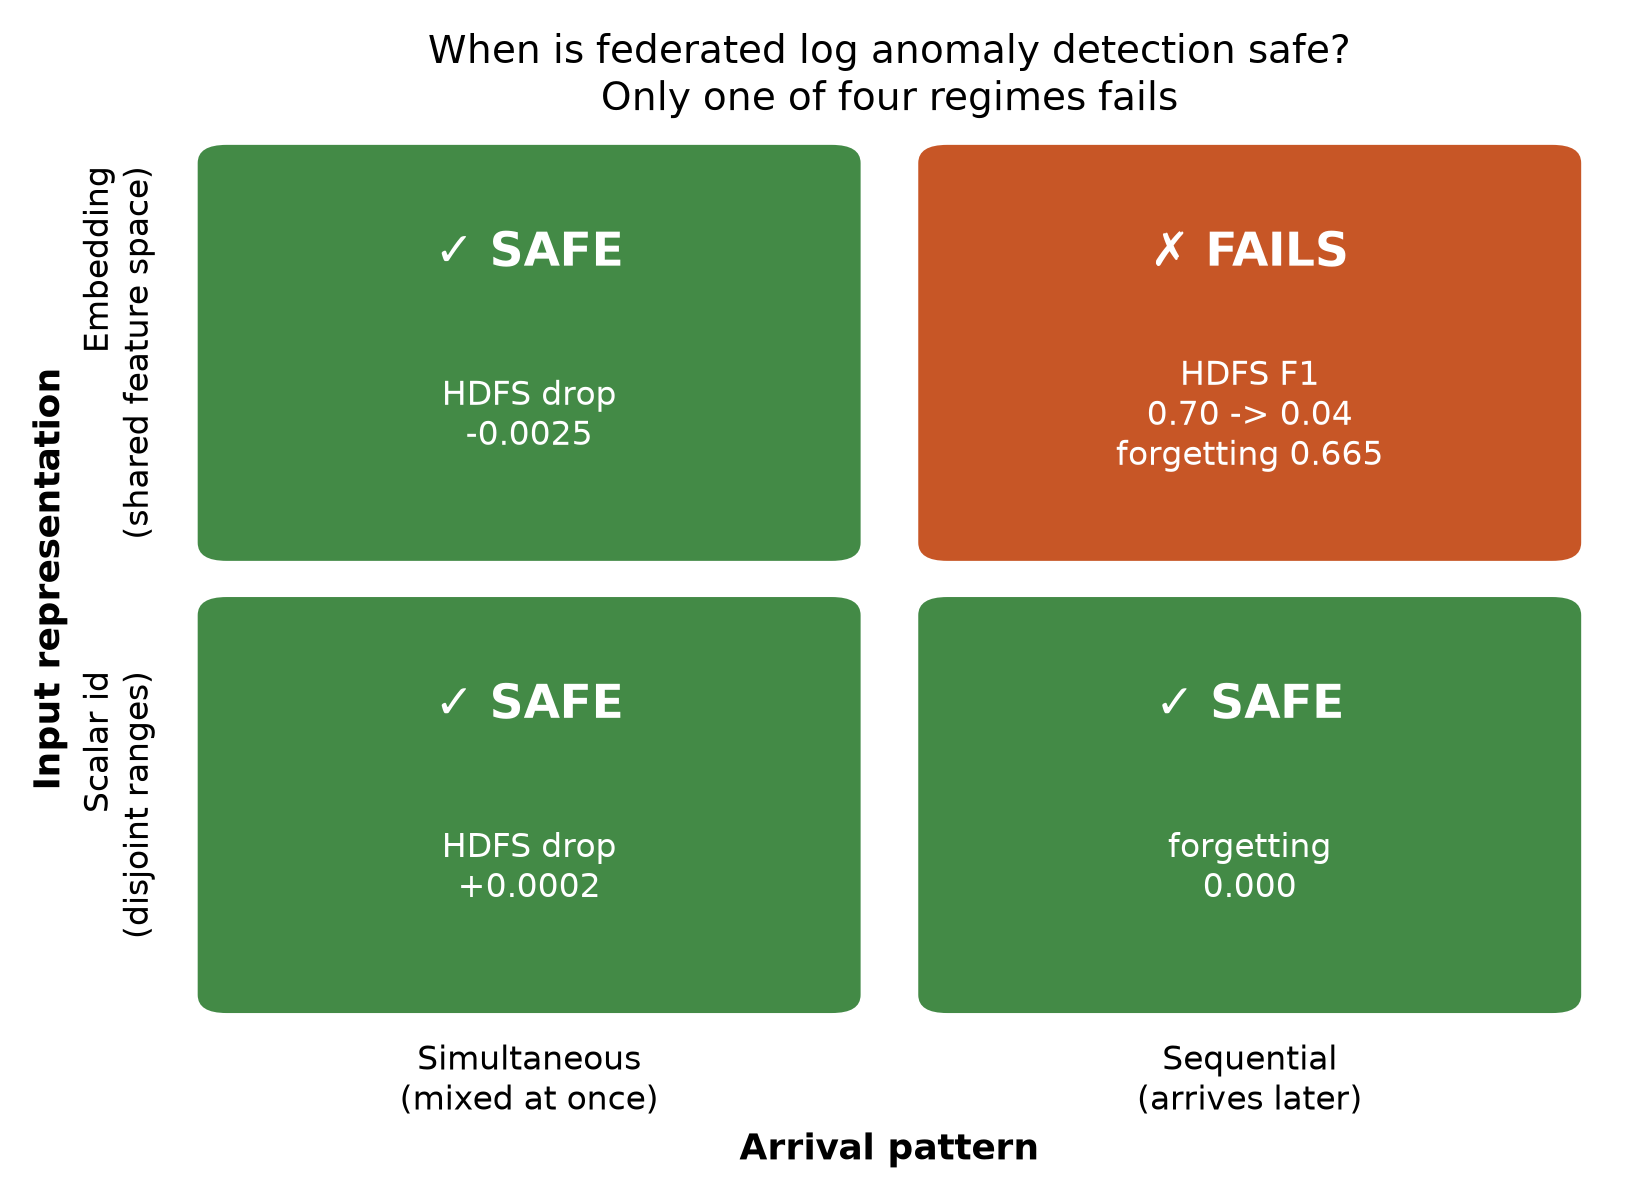
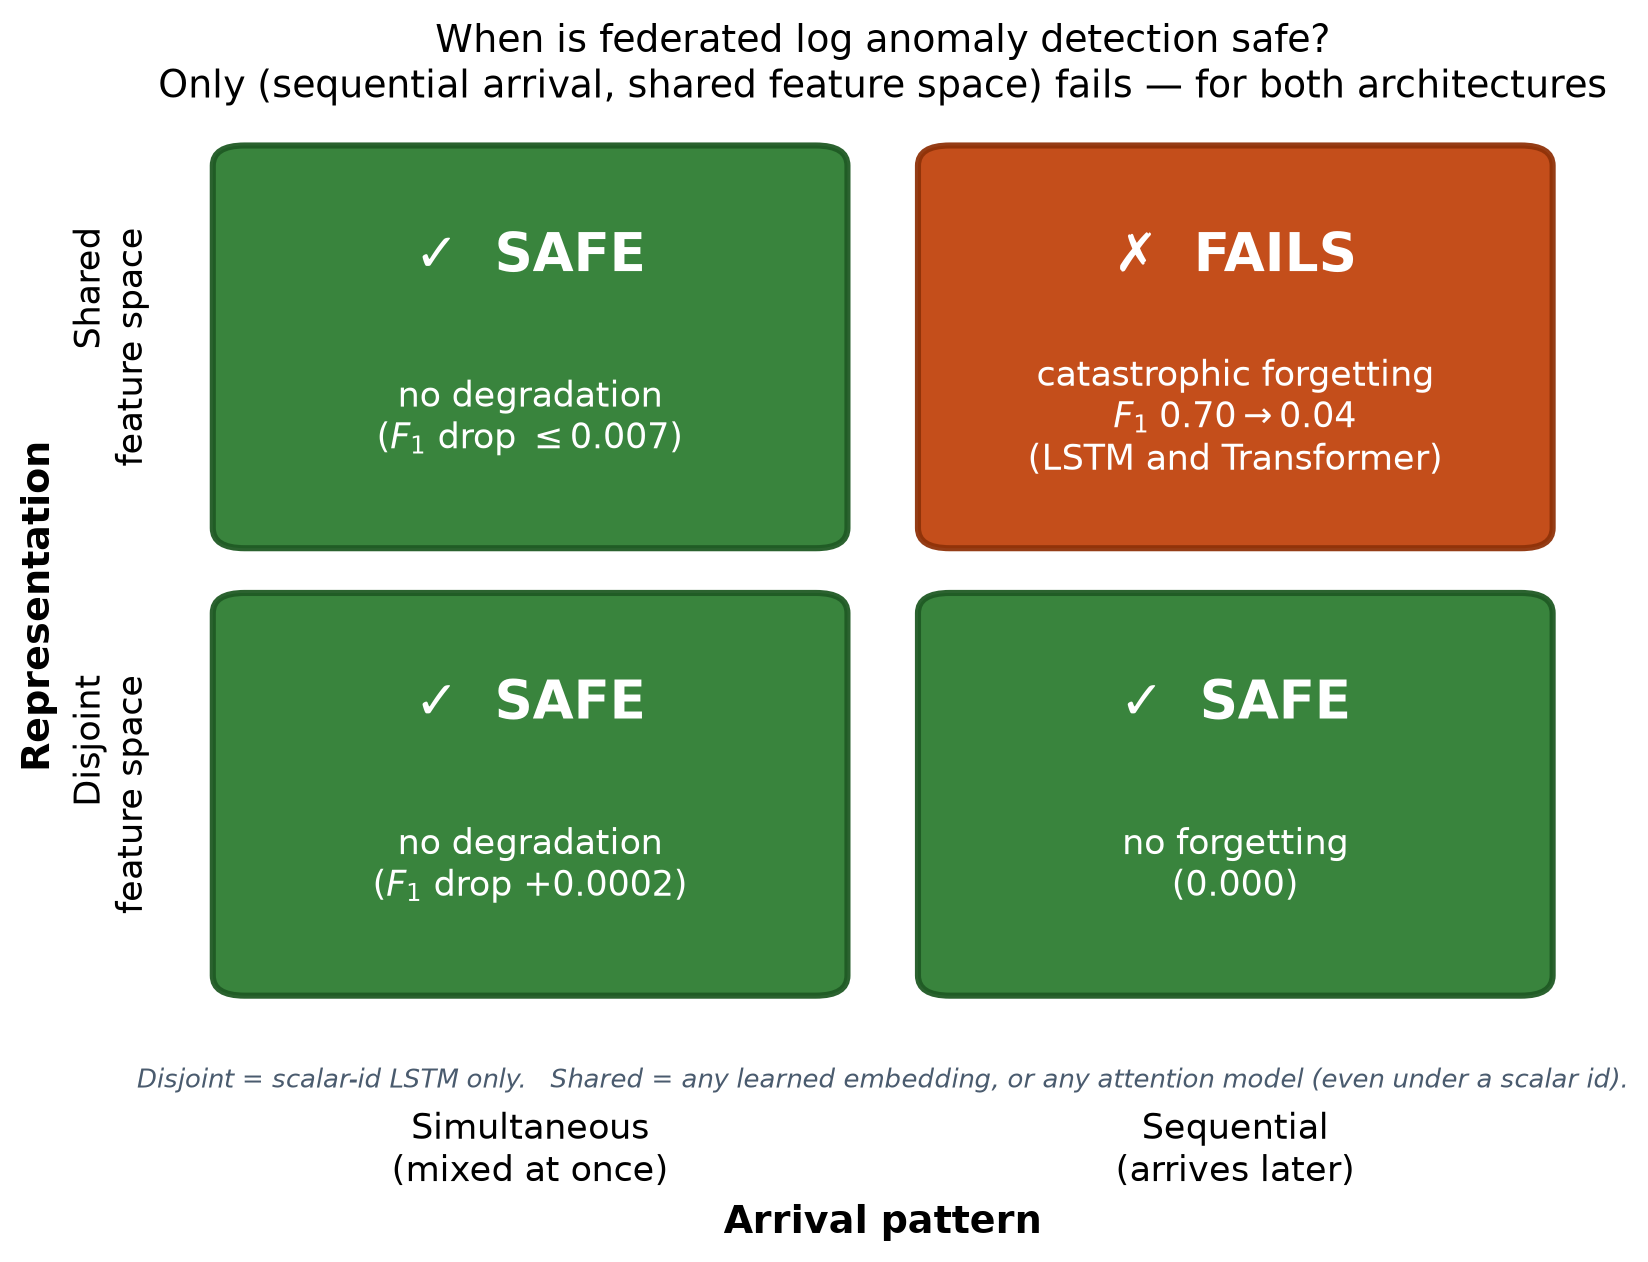
Improve publication figures: accurate architecture-general 2x2 map + precise impact labels
- 2x2 safety map redesigned to be ACCURATE and comprehensive: the deciding y-axis is now
  {disjoint vs shared FEATURE SPACE}, not the raw input encoding -- so "only one cell fails"
  holds for BOTH architectures (the Transformer forgets even under scalar because its
  projection shares feature space). Failing cell names "LSTM and Transformer"; a clarifying
  footnote maps encodings to feature space. Crisper borders/typography; fixed a '\&' render bug.
  fig:map caption updated in conference.tex and main.tex to match.
- Impact figure: show 99.97% (not a rounded 100.0%) for the range-collapse coverage loss --
  keeps the headline honest.

Claude-Session: https://claude.ai/code/session_01WPFK1xU27oUYoS58wvH2uv

diff --git a/scripts/plot_results.py b/scripts/plot_results.py
@@ -338,9 +338,10 @@ def h2_bars(h2_path: str, out: str) -> None:
 
 
 def two_by_two_map(out: str) -> None:
-    """The signature conceptual figure: a 2x2 over {arrival pattern} x {representation}.
-    Only (sequential, shared-representation) fails. Values are the paper's measured drops.
-    This figure summarizes H2 + H3 + the mechanism experiment in one panel."""
+    """The signature conceptual figure: a 2x2 over {arrival pattern} x {feature space}. Only
+    (sequential, shared feature space) fails --- and this holds for BOTH architectures, because the
+    deciding axis is whether domains share a feature space, not the raw input encoding. Values are the
+    measured per-domain drop / forgetting. Summarizes H2, H3, the mechanism, and the architecture test."""
     try:
         import matplotlib
         matplotlib.use("Agg")
@@ -349,41 +350,44 @@ def two_by_two_map(out: str) -> None:
     except ImportError:
         sys.exit("matplotlib not installed — pip install -r requirements.txt")
 
-    SAFE = "#2E7D32"; FAIL = "#C1440E"
-    # (col, row) -> (bg, verdict, detail).  col: 0=simultaneous 1=sequential
-    #                                        row: 0=scalar(disjoint) 1=embedding(shared)
+    SAFE = "#2E7D32"; SAFE_D = "#1f5a24"; FAIL = "#C1440E"; FAIL_D = "#8f3209"
+    # (col,row): col 0=simultaneous 1=sequential ; row 0=disjoint 1=shared
     cells = {
-        (0, 0): (SAFE, "SAFE", "HDFS drop\n+0.0002"),
-        (1, 0): (SAFE, "SAFE", "forgetting\n0.000"),
-        (0, 1): (SAFE, "SAFE", "HDFS drop\n-0.0025"),
-        (1, 1): (FAIL, "FAILS", "HDFS F1\n0.70 -> 0.04\nforgetting 0.665"),
+        (0, 0): (SAFE, SAFE_D, "SAFE", "no degradation\n($F_1$ drop $+0.0002$)"),
+        (1, 0): (SAFE, SAFE_D, "SAFE", "no forgetting\n($0.000$)"),
+        (0, 1): (SAFE, SAFE_D, "SAFE", "no degradation\n($F_1$ drop $\\leq 0.007$)"),
+        (1, 1): (FAIL, FAIL_D, "FAILS", "catastrophic forgetting\n$F_1\\;0.70\\rightarrow0.04$\n"
+                                        "(LSTM and Transformer)"),
     }
-    fig, ax = plt.subplots(figsize=(8.2, 6))
-    for (c, r), (bg, verdict, detail) in cells.items():
-        ax.add_patch(FancyBboxPatch((c + 0.04, r + 0.04), 0.92, 0.92,
-                     boxstyle="round,pad=0.0,rounding_size=0.04",
-                     linewidth=0, facecolor=bg, alpha=0.90))
+    fig, ax = plt.subplots(figsize=(8.6, 6.4))
+    for (c, r), (bg, edge, verdict, detail) in cells.items():
+        ax.add_patch(FancyBboxPatch((c + 0.05, r + 0.05), 0.90, 0.90,
+                     boxstyle="round,pad=0.0,rounding_size=0.045",
+                     linewidth=2.2, edgecolor=edge, facecolor=bg, alpha=0.95))
         mark = "✓" if verdict == "SAFE" else "✗"
-        ax.text(c + 0.5, r + 0.72, f"{mark} {verdict}", ha="center", va="center",
-                fontsize=17, fontweight="bold", color="white")
-        ax.text(c + 0.5, r + 0.36, detail, ha="center", va="center",
-                fontsize=12, color="white")
+        ax.text(c + 0.5, r + 0.70, f"{mark}  {verdict}", ha="center", va="center",
+                fontsize=19, fontweight="bold", color="white")
+        ax.text(c + 0.5, r + 0.34, detail, ha="center", va="center", fontsize=12.5, color="white")
 
-    ax.set_xlim(0, 2); ax.set_ylim(0, 2)
+    ax.set_xlim(-0.02, 2.02); ax.set_ylim(-0.18, 2.02)
     ax.set_xticks([0.5, 1.5]); ax.set_yticks([0.5, 1.5])
-    ax.set_xticklabels(["Simultaneous\n(mixed at once)", "Sequential\n(arrives later)"], fontsize=12)
-    ax.set_yticklabels(["Scalar id\n(disjoint ranges)", "Embedding\n(shared feature space)"],
-                       fontsize=12, rotation=90, va="center")
-    ax.set_xlabel("Arrival pattern", fontsize=13, fontweight="bold")
-    ax.set_ylabel("Input representation", fontsize=13, fontweight="bold")
+    ax.set_xticklabels(["Simultaneous\n(mixed at once)", "Sequential\n(arrives later)"], fontsize=12.5)
+    ax.set_yticklabels(["Disjoint\nfeature space", "Shared\nfeature space"],
+                       fontsize=12.5, rotation=90, va="center")
+    ax.set_xlabel("Arrival pattern", fontsize=13.5, fontweight="bold")
+    ax.set_ylabel("Representation", fontsize=13.5, fontweight="bold")
     ax.set_title("When is federated log anomaly detection safe?\n"
-                 "Only one of four regimes fails", fontsize=14)
+                 "Only (sequential arrival, shared feature space) fails — for both architectures",
+                 fontsize=13.5)
+    ax.text(1.0, -0.14, "Disjoint = scalar-id LSTM only.   Shared = any learned embedding, or any "
+            "attention model (even under a scalar id).",
+            ha="center", va="center", fontsize=9.5, style="italic", color="#4a5b6e")
     for s in ax.spines.values():
         s.set_visible(False)
     ax.tick_params(length=0)
     fig.tight_layout()
     os.makedirs("results", exist_ok=True)
-    fig.savefig(out, dpi=200)
+    fig.savefig(out, dpi=200, bbox_inches="tight")
     print(f"wrote {out}")
 
 
@@ -488,8 +492,9 @@ def impact_figure(blindspot_csv, overhead_csv, out):
     ys = [v for _, v in loss]
     bars = axL.bar([0, 1], ys, width=0.6, color="#C1440E", edgecolor="black", linewidth=0.5)
     for b, v in zip(bars, ys):
-        axL.text(b.get_x() + b.get_width() / 2, v - 8, f"{v:.1f}%", ha="center", va="top",
-                 fontsize=14, fontweight="bold", color="white")
+        txt = f"{v:.2f}%" if v >= 99 else f"{v:.1f}%"   # keep 99.97% honest, not a rounded 100%
+        axL.text(b.get_x() + b.get_width() / 2, v - 8, txt, ha="center", va="top",
+                 fontsize=13.5, fontweight="bold", color="white")
     axL.set_xticks([0, 1]); axL.set_xticklabels([n for n, _ in loss], fontsize=11)
     axL.set_ylabel("Detection capability lost (%)", fontsize=11)
     axL.set_ylim(0, 108)

diff --git a/docs/paper/main.tex b/docs/paper/main.tex
@@ -548,10 +548,12 @@ the scalar-id encoding (blue) keeps them in disjoint ranges and no forgetting oc
 \begin{figure}[t]
 \centering
 \includegraphics[width=\columnwidth]{two_by_two_map.png}
-\caption{The $2\times2$ safety map summarizing H2, H3, and the mechanism experiment. Across
-\{arrival pattern\}$\times$\{input representation\}, only \emph{(sequential, shared representation)}
-fails; the other three regimes are safe. Values are the measured per-domain drop or forgetting. The
-failing cell is shown for the forward order HDFS$\rightarrow$BGL; it is directional (Table~\ref{tab:reverse}).}
+\caption{The $2\times2$ safety map summarizing H2, H3, and the mechanism and architecture experiments.
+Across \{arrival pattern\}$\times$\{feature space\}, only \emph{(sequential arrival, shared feature
+space)} fails---for both an LSTM and a Transformer; the other three regimes are safe. A disjoint feature
+space arises only for a scalar-id LSTM; any learned embedding, or any attention model (even under a
+scalar id), shares one. The failing cell is for the forward order HDFS$\rightarrow$BGL and is directional
+(Table~\ref{tab:reverse}).}
 \label{fig:map}
 \end{figure}
 

diff --git a/docs/paper/conference.tex b/docs/paper/conference.tex
@@ -223,8 +223,10 @@ BGL  & $0.6459$ & $0.7517$ & $-0.1058\pm0.0023$ \\
 \begin{figure}[t]
 \centering
 \includegraphics[width=0.84\columnwidth]{two_by_two_map.png}
-\caption{The $2\times2$ safety map. Only \emph{(sequential, shared representation)} fails; the other
-three regimes are safe. Confirmed for a Transformer as well (Fig.~\ref{fig:arch}).}
+\caption{The $2\times2$ safety map over \{arrival pattern\}$\times$\{feature space\}. Only
+\emph{(sequential arrival, shared feature space)} fails---and for \emph{both} an LSTM and a Transformer;
+the other three regimes are safe. A disjoint feature space arises only for a scalar-id LSTM; any learned
+embedding, or any attention model (even under a scalar id), shares one (Fig.~\ref{fig:arch}).}
 \label{fig:map}
 \end{figure}
 
